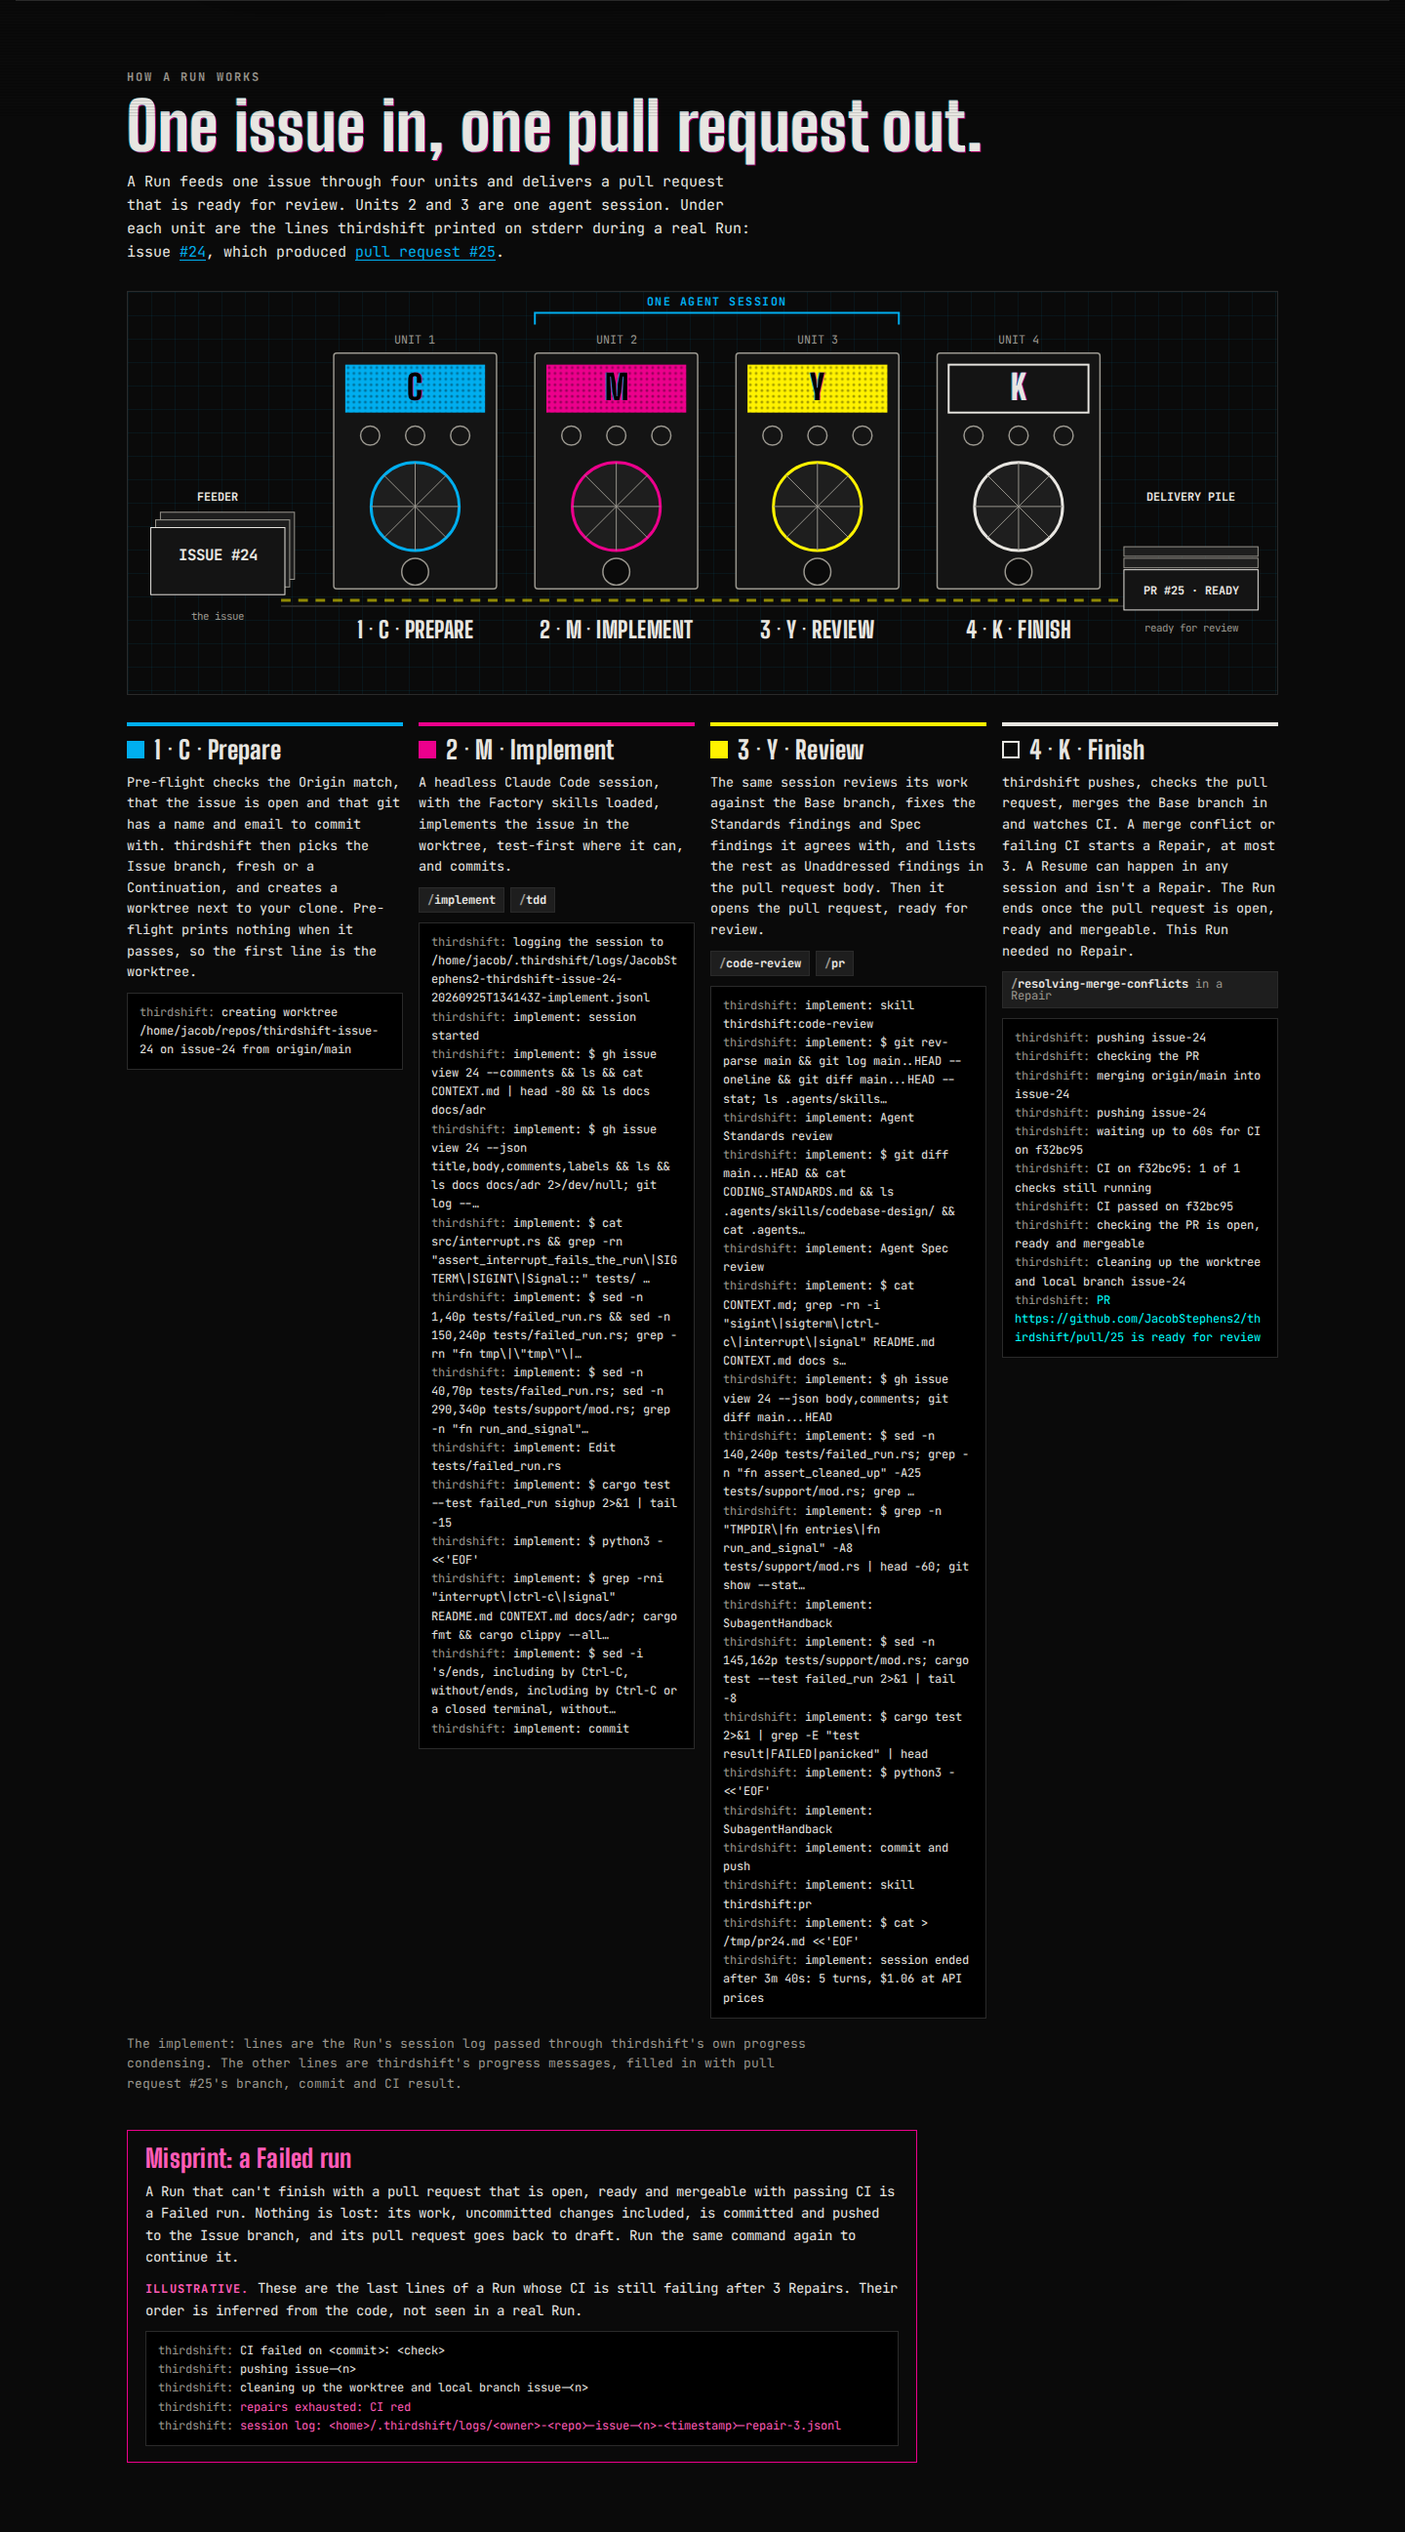
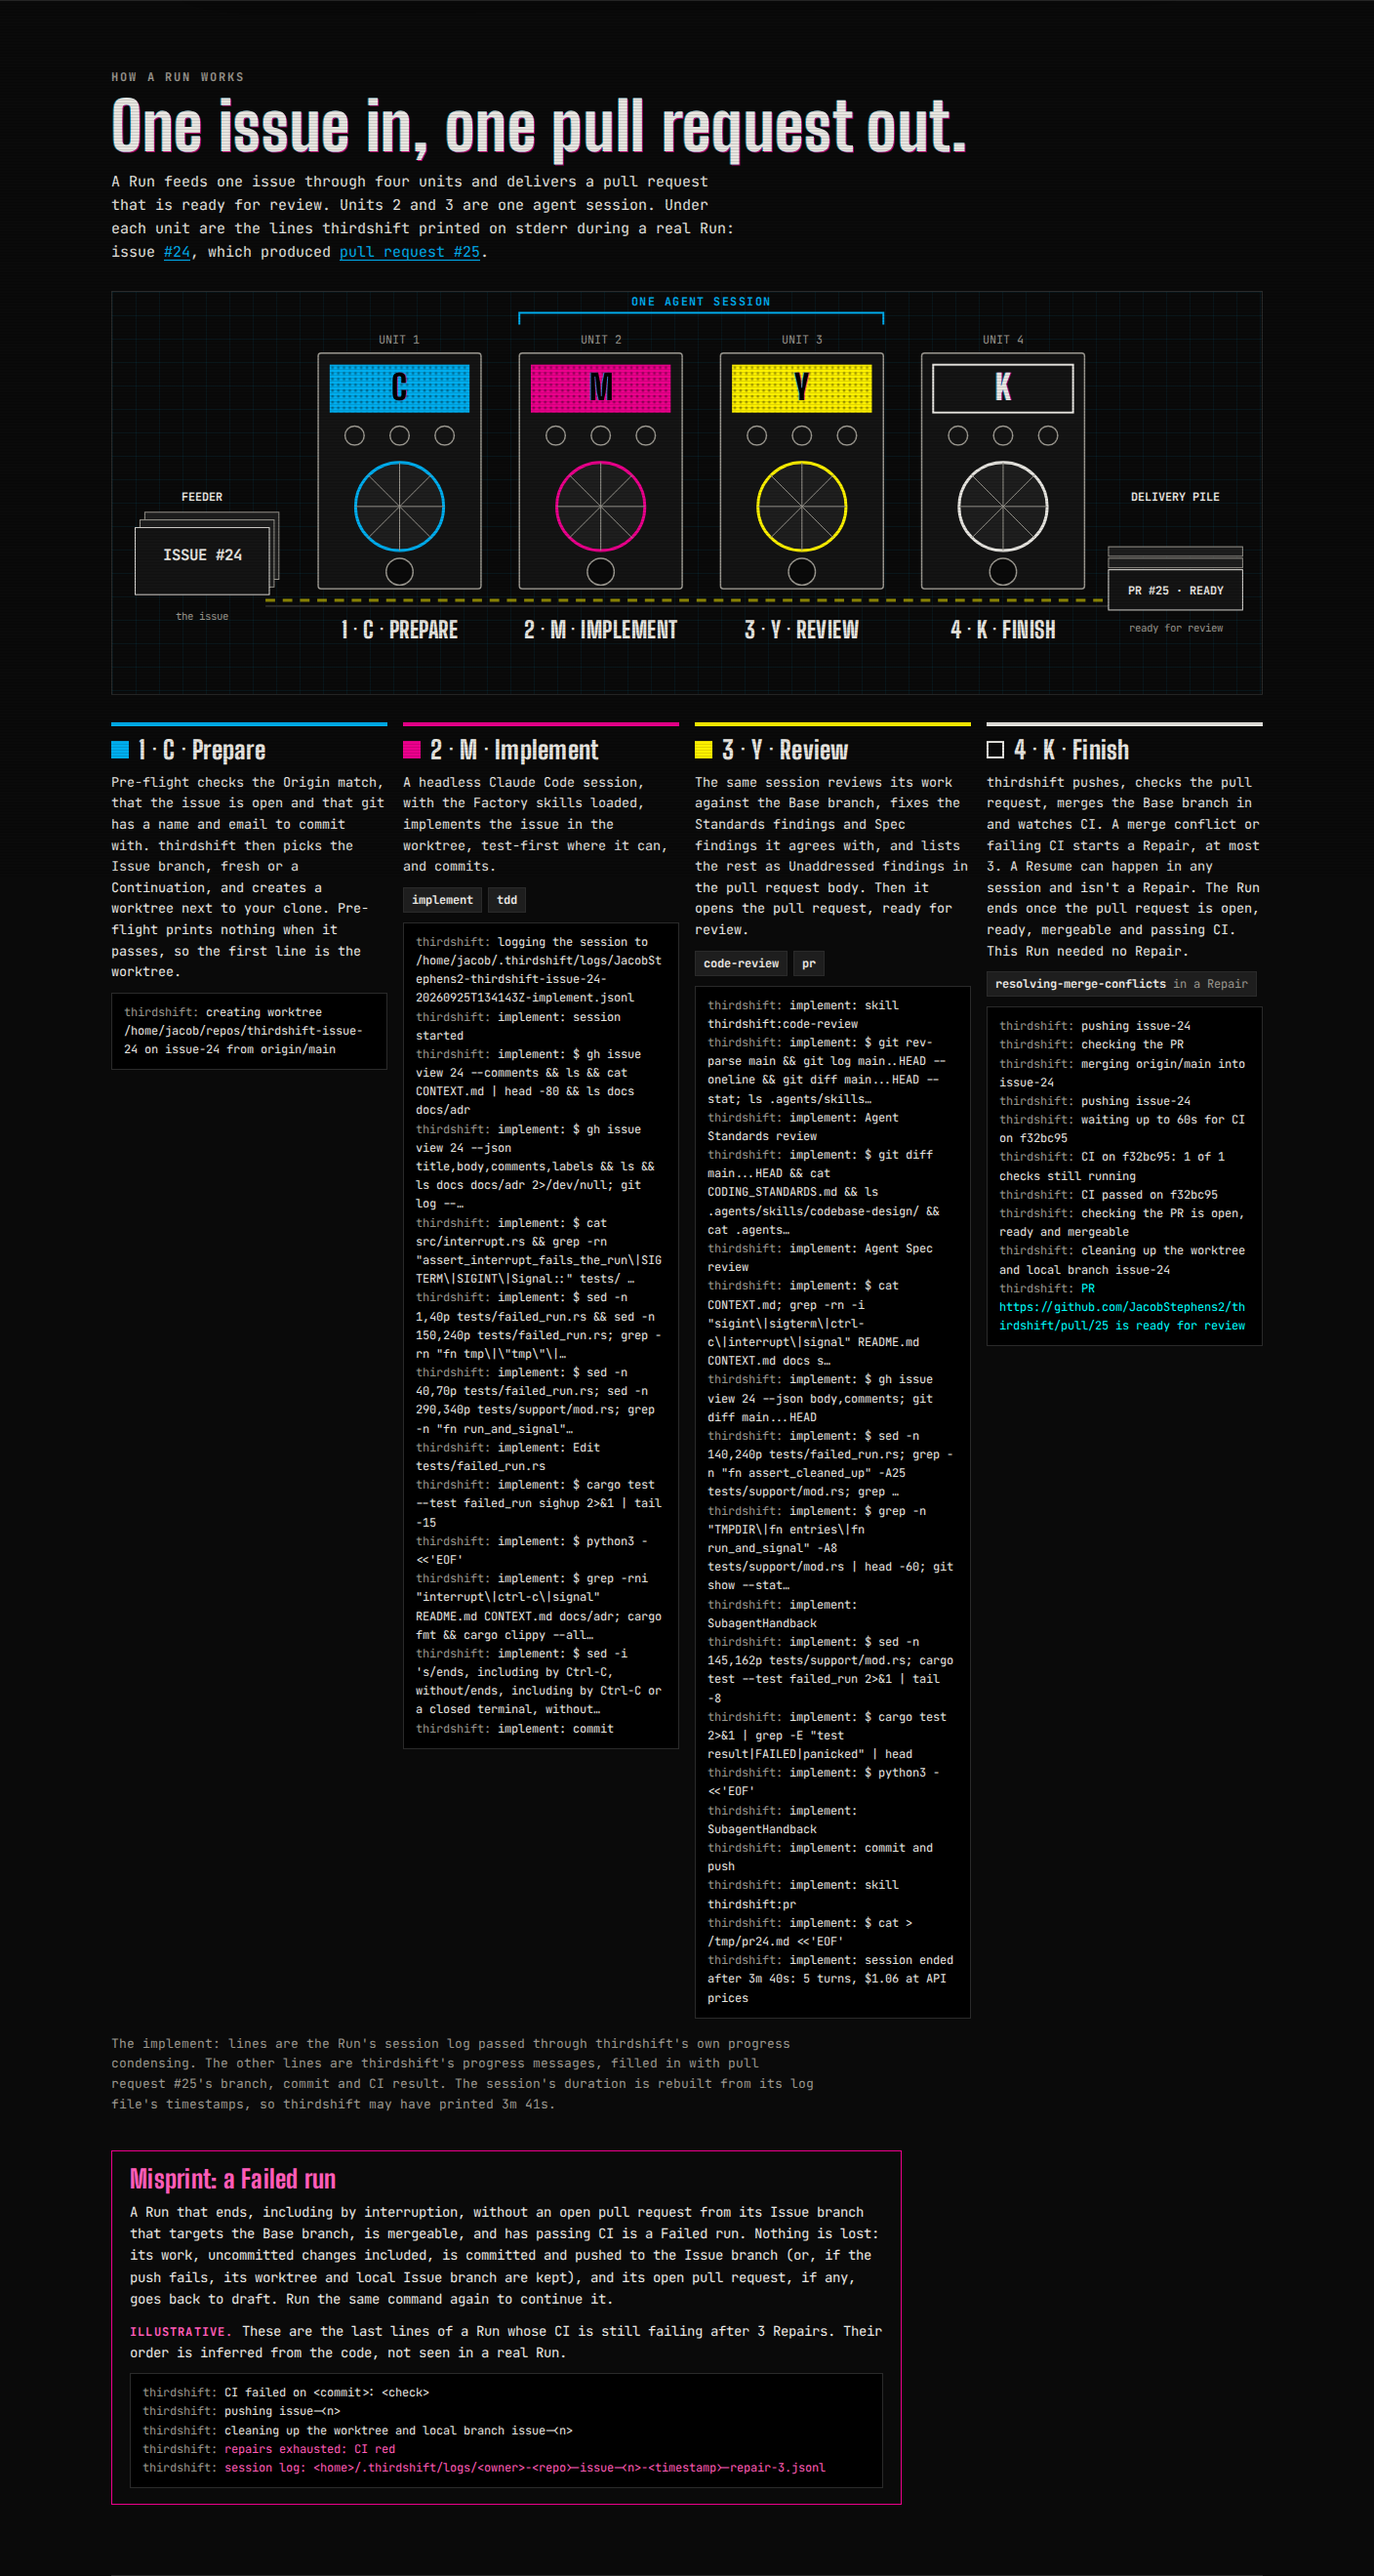
Use the Glossary's Failed run and Factory skills wording, and caveat the rebuilt duration
Unit 4 now names passing CI in the success condition, the misprint quotes
the Failed run definition, skill labels drop the slash-command prefix,
and the stderr and skill lists get names that say what they hold.

diff --git a/site/index.html b/site/index.html
@@ -143,15 +143,15 @@
       <article class="unit-col ink-c" aria-labelledby="unit-1">
         <h3 id="unit-1"><span class="tag" aria-hidden="true"></span>1 · C · Prepare</h3>
         <p>Pre-flight checks the Origin match, that the issue is open and that git has a name and email to commit with. thirdshift then picks the Issue branch, fresh or a Continuation, and creates a worktree next to your clone. Pre-flight prints nothing when it passes, so the first line is the worktree.</p>
-        <ol class="lines" aria-label="stderr lines from unit 1">
+        <ol class="stderr-lines" aria-label="stderr lines from unit 1">
           <li><span class="prefix">thirdshift:</span> creating worktree /home/jacob/repos/thirdshift-issue-24 on issue-24 from origin/main</li>
         </ol>
       </article>
       <article class="unit-col ink-m" aria-labelledby="unit-2">
         <h3 id="unit-2"><span class="tag" aria-hidden="true"></span>2 · M · Implement</h3>
         <p>A headless Claude Code session, with the Factory skills loaded, implements the issue in the worktree, test-first where it can, and commits.</p>
-        <ul class="skills" aria-label="Skills"><li>implement</li><li>tdd</li></ul>
-        <ol class="lines" aria-label="stderr lines from unit 2">
+        <ul class="factory-skills" aria-label="Factory skills"><li>implement</li><li>tdd</li></ul>
+        <ol class="stderr-lines" aria-label="stderr lines from unit 2">
           <li><span class="prefix">thirdshift:</span> logging the session to /home/jacob/.thirdshift/logs/JacobStephens2-thirdshift-issue-24-20260925T134143Z-implement.jsonl</li>
           <li><span class="prefix">thirdshift:</span> implement: session started</li>
           <li><span class="prefix">thirdshift:</span> implement: $ gh issue view 24 --comments &amp;&amp; ls &amp;&amp; cat CONTEXT.md | head -80 &amp;&amp; ls docs docs/adr</li>
@@ -170,8 +170,8 @@
       <article class="unit-col ink-y" aria-labelledby="unit-3">
         <h3 id="unit-3"><span class="tag" aria-hidden="true"></span>3 · Y · Review</h3>
         <p>The same session reviews its work against the Base branch, fixes the Standards findings and Spec findings it agrees with, and lists the rest as Unaddressed findings in the pull request body. Then it opens the pull request, ready for review.</p>
-        <ul class="skills" aria-label="Skills"><li>code-review</li><li>pr</li></ul>
-        <ol class="lines" aria-label="stderr lines from unit 3">
+        <ul class="factory-skills" aria-label="Factory skills"><li>code-review</li><li>pr</li></ul>
+        <ol class="stderr-lines" aria-label="stderr lines from unit 3">
           <li><span class="prefix">thirdshift:</span> implement: skill thirdshift:code-review</li>
           <li><span class="prefix">thirdshift:</span> implement: $ git rev-parse main &amp;&amp; git log main..HEAD --oneline &amp;&amp; git diff main...HEAD --stat; ls .agents/skills…</li>
           <li><span class="prefix">thirdshift:</span> implement: Agent Standards review</li>
@@ -194,9 +194,9 @@
       </article>
       <article class="unit-col ink-k" aria-labelledby="unit-4">
         <h3 id="unit-4"><span class="tag" aria-hidden="true"></span>4 · K · Finish</h3>
-        <p>thirdshift pushes, checks the pull request, merges the Base branch in and watches CI. A merge conflict or failing CI starts a Repair, at most 3. A Resume can happen in any session and isn't a Repair. The Run ends once the pull request is open, ready and mergeable. This Run needed no Repair.</p>
-        <ul class="skills" aria-label="Skills"><li>resolving-merge-conflicts <span>in a Repair</span></li></ul>
-        <ol class="lines" aria-label="stderr lines from unit 4">
+        <p>thirdshift pushes, checks the pull request, merges the Base branch in and watches CI. A merge conflict or failing CI starts a Repair, at most 3. A Resume can happen in any session and isn't a Repair. The Run ends once the pull request is open, ready, mergeable and passing CI. This Run needed no Repair.</p>
+        <ul class="factory-skills" aria-label="Factory skills"><li>resolving-merge-conflicts <span>in a Repair</span></li></ul>
+        <ol class="stderr-lines" aria-label="stderr lines from unit 4">
           <li><span class="prefix">thirdshift:</span> pushing issue-24</li>
           <li><span class="prefix">thirdshift:</span> checking the PR</li>
           <li><span class="prefix">thirdshift:</span> merging origin/main into issue-24</li>
@@ -210,13 +210,13 @@
         </ol>
       </article>
     </div>
-    <p class="press-source">The <code>implement:</code> lines are the Run's session log passed through thirdshift's own progress condensing. The other lines are thirdshift's progress messages, filled in with pull request #25's branch, commit and CI result.</p>
+    <p class="press-source">The <code>implement:</code> lines are the Run's session log passed through thirdshift's own progress condensing. The other lines are thirdshift's progress messages, filled in with pull request #25's branch, commit and CI result. The session's duration is rebuilt from its log file's timestamps, so thirdshift may have printed 3m 41s.</p>
 
     <aside class="misprint" aria-labelledby="misprint-title">
       <h3 id="misprint-title">Misprint: a Failed run</h3>
-      <p>A Run that can't finish with a pull request that is open, ready and mergeable with passing CI is a Failed run. Nothing is lost: its work, uncommitted changes included, is committed and pushed to the Issue branch, and its pull request goes back to draft. Run the same command again to continue it.</p>
+      <p>A Run that ends, including by interruption, without an open pull request from its Issue branch that targets the Base branch, is mergeable, and has passing CI is a Failed run. Nothing is lost: its work, uncommitted changes included, is committed and pushed to the Issue branch (or, if the push fails, its worktree and local Issue branch are kept), and its open pull request, if any, goes back to draft. Run the same command again to continue it.</p>
       <p class="illustrative"><b>Illustrative.</b> These are the last lines of a Run whose CI is still failing after 3 Repairs. Their order is inferred from the code, not seen in a real Run.</p>
-      <ol class="lines" aria-label="stderr lines from an illustrative Failed run">
+      <ol class="stderr-lines" aria-label="stderr lines from an illustrative Failed run">
         <li><span class="prefix">thirdshift:</span> CI failed on &lt;commit&gt;: &lt;check&gt;</li>
         <li><span class="prefix">thirdshift:</span> pushing issue-&lt;n&gt;</li>
         <li><span class="prefix">thirdshift:</span> cleaning up the worktree and local branch issue-&lt;n&gt;</li>

diff --git a/site/styles.css b/site/styles.css
@@ -148,15 +148,14 @@ body::after { /* scanlines */
 .unit-col .tag { width: 18px; height: 18px; flex: none; background: var(--ink); }
 .unit-col.ink-k .tag { background: transparent; border: 2px solid var(--paper); }
 .unit-col p { margin: 0; font-size: 13.5px; }
-.skills { display: flex; flex-wrap: wrap; gap: 6px; list-style: none; margin: 0; padding: 0; }
-.skills li { font: 700 12px/1 var(--f-mono); padding: 6px 8px; background: var(--k3); border: 1px solid var(--rule); }
-.skills li::before { content: "/"; color: var(--dim); }
-.skills li span { font-weight: 400; color: var(--dim); }
-.lines { list-style: none; margin: 0; padding: 10px 12px; font: 12px/1.6 var(--f-mono); background: #000; border: 1px solid var(--rule); }
-.lines li { white-space: pre-wrap; overflow-wrap: anywhere; }
-.lines .prefix { color: var(--dim); }
-.lines .ready { color: var(--nc); }
-.lines .failed { color: var(--m-text); }
+.factory-skills { display: flex; flex-wrap: wrap; gap: 6px; list-style: none; margin: 0; padding: 0; }
+.factory-skills li { font: 700 12px/1 var(--f-mono); padding: 6px 8px; background: var(--k3); border: 1px solid var(--rule); }
+.factory-skills li span { font-weight: 400; color: var(--dim); }
+.stderr-lines { list-style: none; margin: 0; padding: 10px 12px; font: 12px/1.6 var(--f-mono); background: #000; border: 1px solid var(--rule); }
+.stderr-lines li { white-space: pre-wrap; overflow-wrap: anywhere; }
+.stderr-lines .prefix { color: var(--dim); }
+.stderr-lines .ready { color: var(--nc); }
+.stderr-lines .failed { color: var(--m-text); }
 .press-source { margin: 16px 0 0; font-size: 13px; color: var(--dim); max-width: 90ch; }
 .misprint { margin-top: 36px; border: 1px solid var(--m); padding: 16px 18px; display: grid; gap: 10px; max-width: 90ch; }
 .misprint h3 { font-size: 26px; color: var(--m-text); }
